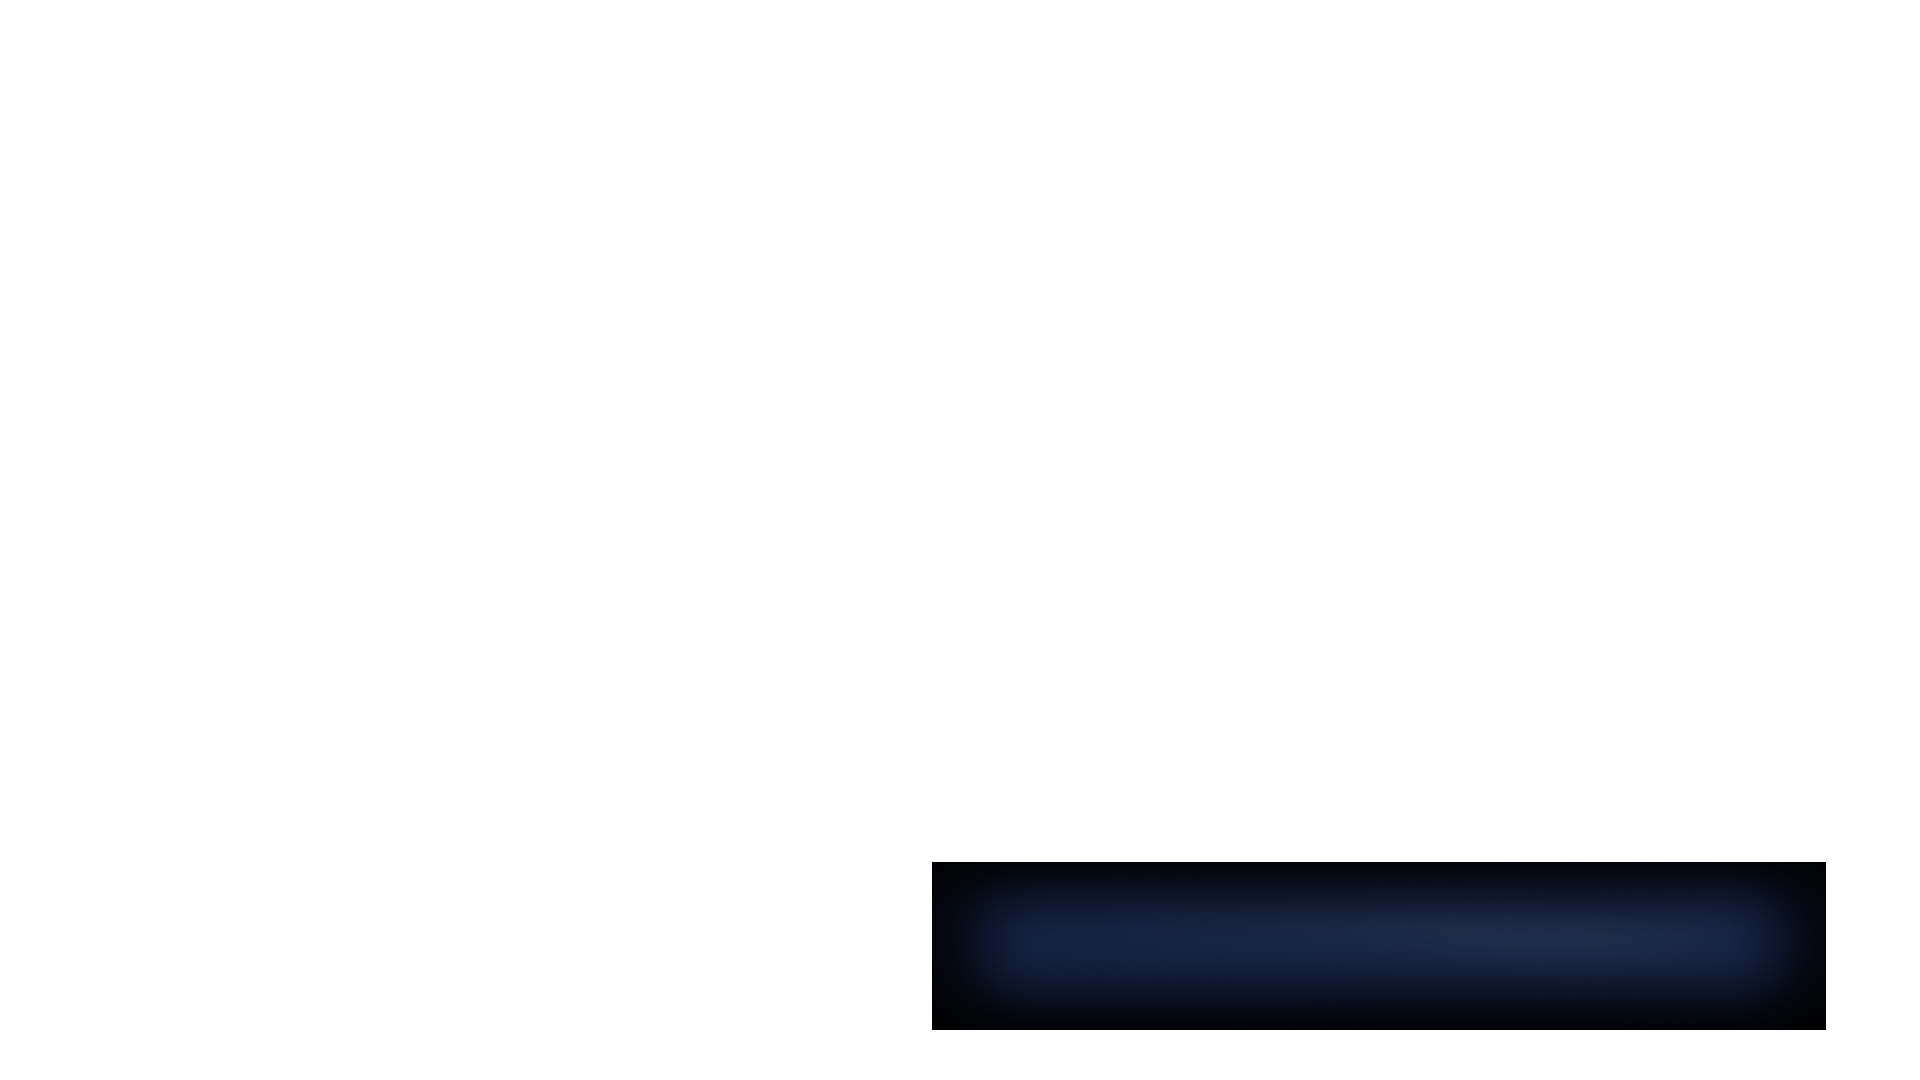
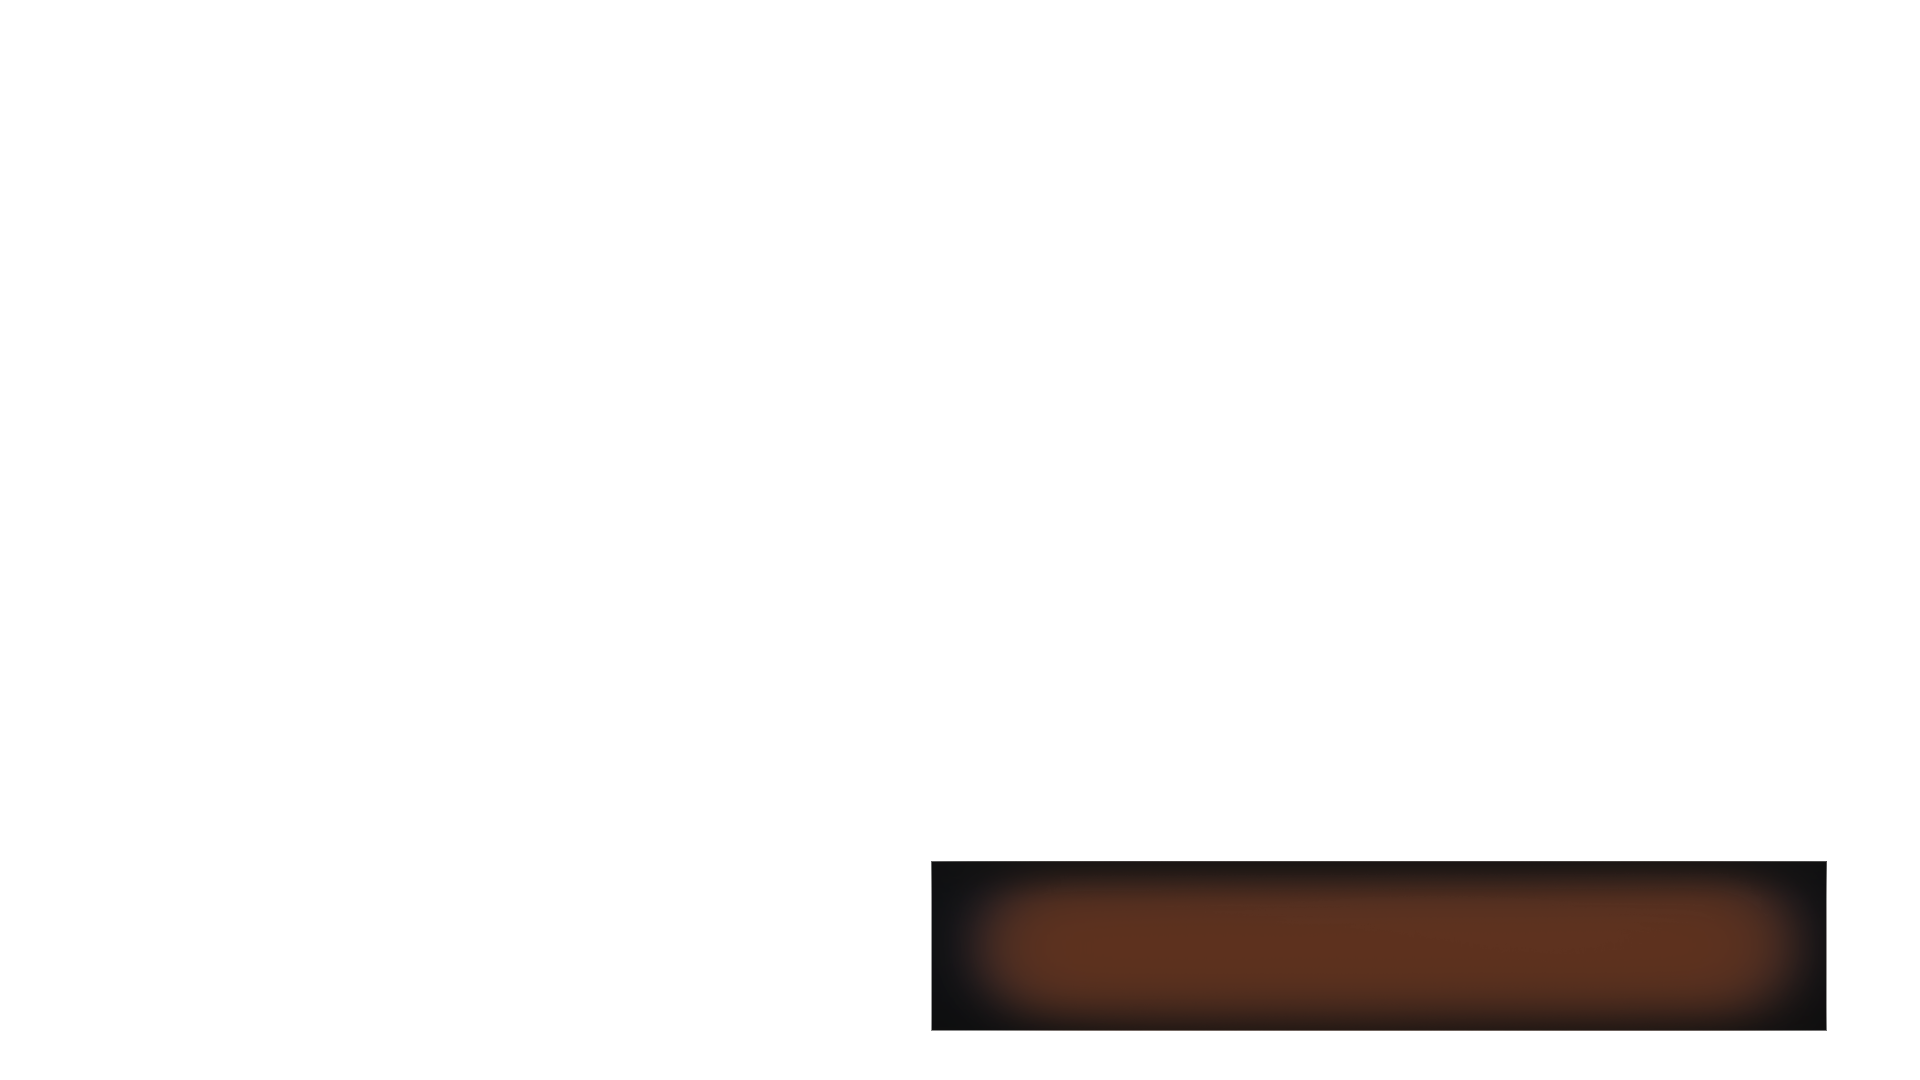
online update 2.45 new online menu bg and GUI

Changed region(s): [[0.5, 0.7944, 0.9688, 0.9778]]

diff --git a/lib/Menu.py b/lib/Menu.py
@@ -1,5 +1,6 @@
 import pygame
 import cv2
+import pyperclip
 
 from lib.display import display
 from constants.fonts.turok import sys as font
@@ -7,12 +8,15 @@ from lib.mixer import play_music_bg
 from lib.Settings import settings
 from lib.drawer import draw_text
 
+
 # from constants.fonts.turok import bigger_sys as big_font
 
 MAIN_MENU_GUI = pygame.image.load(
     r"assets\images\UI\menu_GUI.png").convert_alpha()
 GAME_MODE_GUI = pygame.image.load(
     r"assets\images\UI\game_menu_GUI.png").convert_alpha()
+ONLINE_MODE_GUI = pygame.image.load(
+    r"assets\images\UI\game_online_menu_GUI.png").convert_alpha()
 STORY_MODE_BUTTON = pygame.image.load(
     r"assets\images\UI\story_button_GUI.png").convert_alpha()
 SURVIVAL_MODE_BUTTON = pygame.image.load(
@@ -75,6 +79,63 @@ class Button:
         return self.clicked
 
 
+class LineEdit:
+    def __init__(self, size, pos):
+        self.x, self.y = pos
+        self.size = self.width, self.height = size
+        self.clicked = False
+        self.text = []
+        self.rect = pygame.Rect(self.x, self.y, self.size[0], self.size[1])
+        self.surface = pygame.Surface(self.size)
+        self.render = None
+
+    def click(self, mouse_click):
+        x, y = pygame.mouse.get_pos()
+        if pygame.mouse.get_pressed()[0] and mouse_click:
+            if self.rect.collidepoint(x, y):
+                self.clicked = True
+            else:
+                self.clicked = False
+
+    def show(self, key_press):
+        key = pygame.key.get_pressed()
+        if self.clicked and key_press:
+            if key[pygame.K_BACKSPACE] and len(self.text) > 0:
+                self.text.pop()
+            if key[pygame.K_1]:
+                self.text.append('1')
+            if key[pygame.K_2]:
+                self.text.append('2')
+            if key[pygame.K_3]:
+                self.text.append('3')
+            if key[pygame.K_4]:
+                self.text.append('4')
+            if key[pygame.K_5]:
+                self.text.append('5')
+            if key[pygame.K_6]:
+                self.text.append('6')
+            if key[pygame.K_7]:
+                self.text.append('7')
+            if key[pygame.K_8]:
+                self.text.append('8')
+            if key[pygame.K_9]:
+                self.text.append('9')
+            if key[pygame.K_0]:
+                self.text.append('0')
+            if key[pygame.K_PERIOD]:
+                self.text.append('.')
+
+            if key[pygame.K_v]:
+                self.text.append(str(pyperclip.paste()))
+            if key[pygame.K_c]:
+                pyperclip.copy(self.get_text())
+            draw_text(self.get_text() + ' |', font, (0, 0, 0), 935, 734)
+        draw_text(self.get_text(), font, (0, 0, 0), 935, 734)
+
+    def get_text(self):
+        return str("".join(self.text))
+
+
 class MainMenu:
     def __init__(self, scr_w, scr_h, bg, music):
         self.start_button = Button(
@@ -126,22 +187,23 @@ class MainMenu:
 class ChooseOnlineModeMenu:
     def __init__(self, scr_w, scr_h, bg, music):
         self.connect_button = Button(
-            (450 * scr_w, 699 * scr_h),
-            (928 * scr_w, 95 * scr_h), "connect", STORY_MODE_BUTTON)
+            (420 * scr_w, 330 * scr_h),
+            (1406 * scr_w, 94 * scr_h), "connect")
         self.start_server = Button(
-            (450 * scr_w, 699 * scr_h),
-            (1406 * scr_w, 95 * scr_h), "start", SURVIVAL_MODE_BUTTON)
+            (418 * scr_w, 333 * scr_h),
+            (1406 * scr_w, 460 * scr_h), "start")
         self.exit_button = Button(
             (997 * scr_w, 173 * scr_h),
             (928 * scr_w, 860 * scr_h), "Назад", BACK_BUTTON)
+        self.line_edit = LineEdit((468 * scr_w, 59 * scr_h), (928 * scr_w, 733 * scr_h))
 
         self.bg = bg
-        self.GUI = GAME_MODE_GUI
+        self.GUI = ONLINE_MODE_GUI
         self.enabled = False
         self.is_hide = False
         self.music = music
 
-    def show(self, mouse_click):
+    def show(self, mouse_click, key_press):
         if not self.is_hide:
             scaled_bg = pygame.transform.scale(self.bg, (display.screen_width, display.screen_height))
             display.screen.blit(scaled_bg, (0, 0))
@@ -153,6 +215,8 @@ class ChooseOnlineModeMenu:
             self.exit_button.click(mouse_click)
             self.connect_button.click(mouse_click)
             self.start_server.click(mouse_click)
+            self.line_edit.show(key_press)
+            self.line_edit.click(mouse_click)
 
     def is_enabled(self):
         return self.enabled

diff --git a/lib/gamemodes.py b/lib/gamemodes.py
@@ -31,7 +31,7 @@ texts = dialogs_texts()
 game_menu = MainMenu(display.scr_w, display.scr_h, bg.main_menu, music.main_menu)
 options_menu = OptionsMenu(display.scr_w, display.scr_h, bg.options_menu)
 choose_mode_menu = ChooseModeMenu(display.scr_w, display.scr_h, bg.game_menu_animated, music.main_menu)
-choose_online_mode_menu = ChooseOnlineModeMenu(display.scr_w, display.scr_h, bg.corporation_lab, music.main_menu)
+choose_online_mode_menu = ChooseOnlineModeMenu(display.scr_w, display.scr_h, bg.online_menu, music.main_menu)
 bg.briff_war.play()
 display.set_fps(24)
 
@@ -57,8 +57,6 @@ class Game:
         self.network = None
         self.online_player = None
         self.online_location = None
-
-
 
     def main_campain_game(self, key_click):
         self.check_game_progress(*pg[self.GAME_PROGRESS])
@@ -569,27 +567,27 @@ class Game:
             self.main_campain_game(key_click)
 
         if choose_online_mode_menu.is_enabled():
-            choose_online_mode_menu.show(mouse_click)
+            choose_online_mode_menu.show(mouse_click, key_click)
             if choose_online_mode_menu.exit_button.is_clicked():
                 choose_online_mode_menu.disable()
                 game_menu.enable()
             if choose_online_mode_menu.start_server.is_clicked():
                 choose_online_mode_menu.disable()
 
-                location = random.randrange(0, 56)
+                location = random.randrange(1, 56)
                 self.online_location = location
 
                 self.final_round_over = True
                 self.online_on = True
-                self.network = Network()
+                self.network = Network(choose_online_mode_menu.line_edit.get_text())
                 self.online_player = self.network.getP()
             if choose_online_mode_menu.connect_button.is_clicked():
-                self.network = Network()
+                self.network = Network(choose_online_mode_menu.line_edit.get_text())
                 self.online_player = self.network.getP()
                 if self.online_player:
                     choose_online_mode_menu.disable()
 
-                    location = random.randrange(0, 56)
+                    location = random.randrange(1, 56)
                     self.online_location = location
 
                     self.final_round_over = True

diff --git a/lib/players_data/LISA_PLAYER.py b/lib/players_data/LISA_PLAYER.py
@@ -147,14 +147,14 @@ class LisaPlayer(SuperPauPlayer):
                 self.hit = True
                 choice(woman_sound).play()
                 create_particles((self.rect.centerx, self.rect.top), self.flip, blood)
-                self.player.huge_attack_cooldown -= 100
+                self.player.update_huge_attack_cd(100)
                 # create_particles((self.rect.centerx, self.rect.top), self.flip, self.particle)
                 # choice(self.hurt_sfx).play()
             else:
                 hit = round(hit * 0.2)
                 self.health -= hit
                 self.blocking = True
-                self.player.huge_attack_cooldown -= 50
+                self.player.update_huge_attack_cd(60)
             self.last_damage_number = hit
             create_damage_number((1750 * display.scr_w, 150 * display.scr_h),
                                  self.flip, hit)
@@ -236,11 +236,11 @@ class Attack(pygame.sprite.Sprite):
                     ratio = 0.2
                     if self.block_break or target.jump or target.sprint or target.attacking:
                         ratio = 1
-                        self.player.huge_attack_cooldown -= 50
+                        self.player.update_huge_attack_cd(50)
                         create_particles((target.rect.centerx, target.rect.top), target.flip, blood)
                         choice(human_sound).play()
                     else:
-                        self.player.huge_attack_cooldown -= 30
+                        self.player.update_huge_attack_cd(30)
                     create_damage_number((50 * display.scr_w, 150 * display.scr_h),
                                          target.flip, round(self.damage * ratio))
 

diff --git a/lib/players_data/SUPER_PAU_PLAYER.py b/lib/players_data/SUPER_PAU_PLAYER.py
@@ -212,12 +212,12 @@ class SuperPauPlayer(PLAYER):
             self.hit = True
             create_particles((self.rect.centerx, self.rect.top), self.flip, blood)
             choice(human_sound).play()
-            self.player.huge_attack_cooldown -= 100
+            self.player.update_huge_attack_cd(100)
         else:
             hit = round(hit * 0.2)
             self.health -= hit
             self.blocking = True
-            self.player.huge_attack_cooldown -= 50
+            self.player.update_huge_attack_cd(60)
         create_damage_number((50 * display.scr_w, 150 * display.scr_h),
                              self.flip, hit)
         self.last_damage_number = hit
@@ -253,11 +253,11 @@ class Attack(pygame.sprite.Sprite):
                     ratio = 0.2
                     if self.block_break or target.jump or target.sprint or target.attacking:
                         ratio = 1
-                        self.player.huge_attack_cooldown -= 50
+                        self.player.update_huge_attack_cd(50)
                         create_particles((target.rect.centerx, target.rect.top), target.flip, blood)
                         choice(woman_sound).play()
                     else:
-                        self.player.huge_attack_cooldown -= 30
+                        self.player.update_huge_attack_cd(30)
                     create_damage_number((1750 * display.scr_w, 150 * display.scr_h),
                                          target.flip, round(self.damage * ratio))
                     self.hit = True

diff --git a/lib/display.py b/lib/display.py
@@ -13,7 +13,7 @@ class Display:
         # self.refresh_rate = int(getattr(settings, 'DisplayFrequency'))
         self.refresh_rate = 60
         # Разрешение экрана для pygame
-        self.screen = pygame.display.set_mode((self.screen_width, self.screen_height))
+        self.screen = pygame.display.set_mode((self.screen_width, self.screen_height), pygame.FULLSCREEN)
         # Разрешение в сравнении с нативным
         self.scr_w = self.screen_width / 1920
         self.scr_h = self.screen_height / 1080
@@ -53,7 +53,7 @@ class ServerDisplay:
         # self.refresh_rate = int(getattr(settings, 'DisplayFrequency'))
         self.refresh_rate = 10
         # Разрешение экрана для pygame
-        self.screen = pygame.display.set_mode((self.screen_width, self.screen_height))
+        self.screen = pygame.display.set_mode((self.screen_width, self.screen_height), pygame.RES)
         # Разрешение в сравнении с нативным
         self.screen_width = windll.user32.GetSystemMetrics(0)
         self.screen_height = windll.user32.GetSystemMetrics(1)

diff --git a/constants/textures/backgrounds.py b/constants/textures/backgrounds.py
@@ -52,6 +52,8 @@ black = pygame.image.load(r"assets\images\background\black.png").convert_alpha()
 blue = pygame.image.load(r"assets\images\background\blue.png").convert_alpha()
 
 loading_screen = pygame.image.load(r"assets\images\background\loading_screen.png").convert_alpha()
+online_menu = pygame.image.load(r"assets\images\background\online_menu.png").convert_alpha()
+
 # видео фоны
 game_menu_animated = r"assets\images\animated_background\city_kazan.mp4"
 war_kazan = VideoReader(r"assets\images\animated_background\war_kazan.mp4")

diff --git a/lib/online/network.py b/lib/online/network.py
@@ -6,11 +6,11 @@ BYTES = 4096 ** 2
 
 
 class Network:
-    def __init__(self):
+    def __init__(self, serv):
         self.client = socket.socket(socket.AF_INET, socket.SOCK_STREAM)
         hostname = socket.gethostname()
         IPAddr = socket.gethostbyname(hostname)
-        self.server = "192.168.1.36"
+        self.server = serv
         self.port = 5555
         self.addr = (self.server, self.port)
         self.p = self.connect()

diff --git a/lib/players_data/Player.py b/lib/players_data/Player.py
@@ -178,6 +178,13 @@ class PLAYER:
             else:
                 self.health += amount
 
+    def update_huge_attack_cd(self, amount):
+        if self.alive:
+            if self.huge_attack_cooldown - amount <= 0:
+                self.huge_attack_cooldown = 0
+            else:
+                self.huge_attack_cooldown -= amount
+
     def dash(self):
         if self.dashing:
             self.rect.x += self.dash_x * display.scr_w

diff --git a/server.py b/server.py
@@ -3,14 +3,16 @@ from _thread import *
 import pickle
 
 from lib.display import ServerDisplay
+
 from lib.players import players_for_online
 
 
-server_display = ServerDisplay()
+display = ServerDisplay()
+
 
 hostname = socket.gethostname()
 IPAddr = socket.gethostbyname(hostname)
-server = "192.168.1.36"
+server = IPAddr
 print(server)
 port = 5555
 
